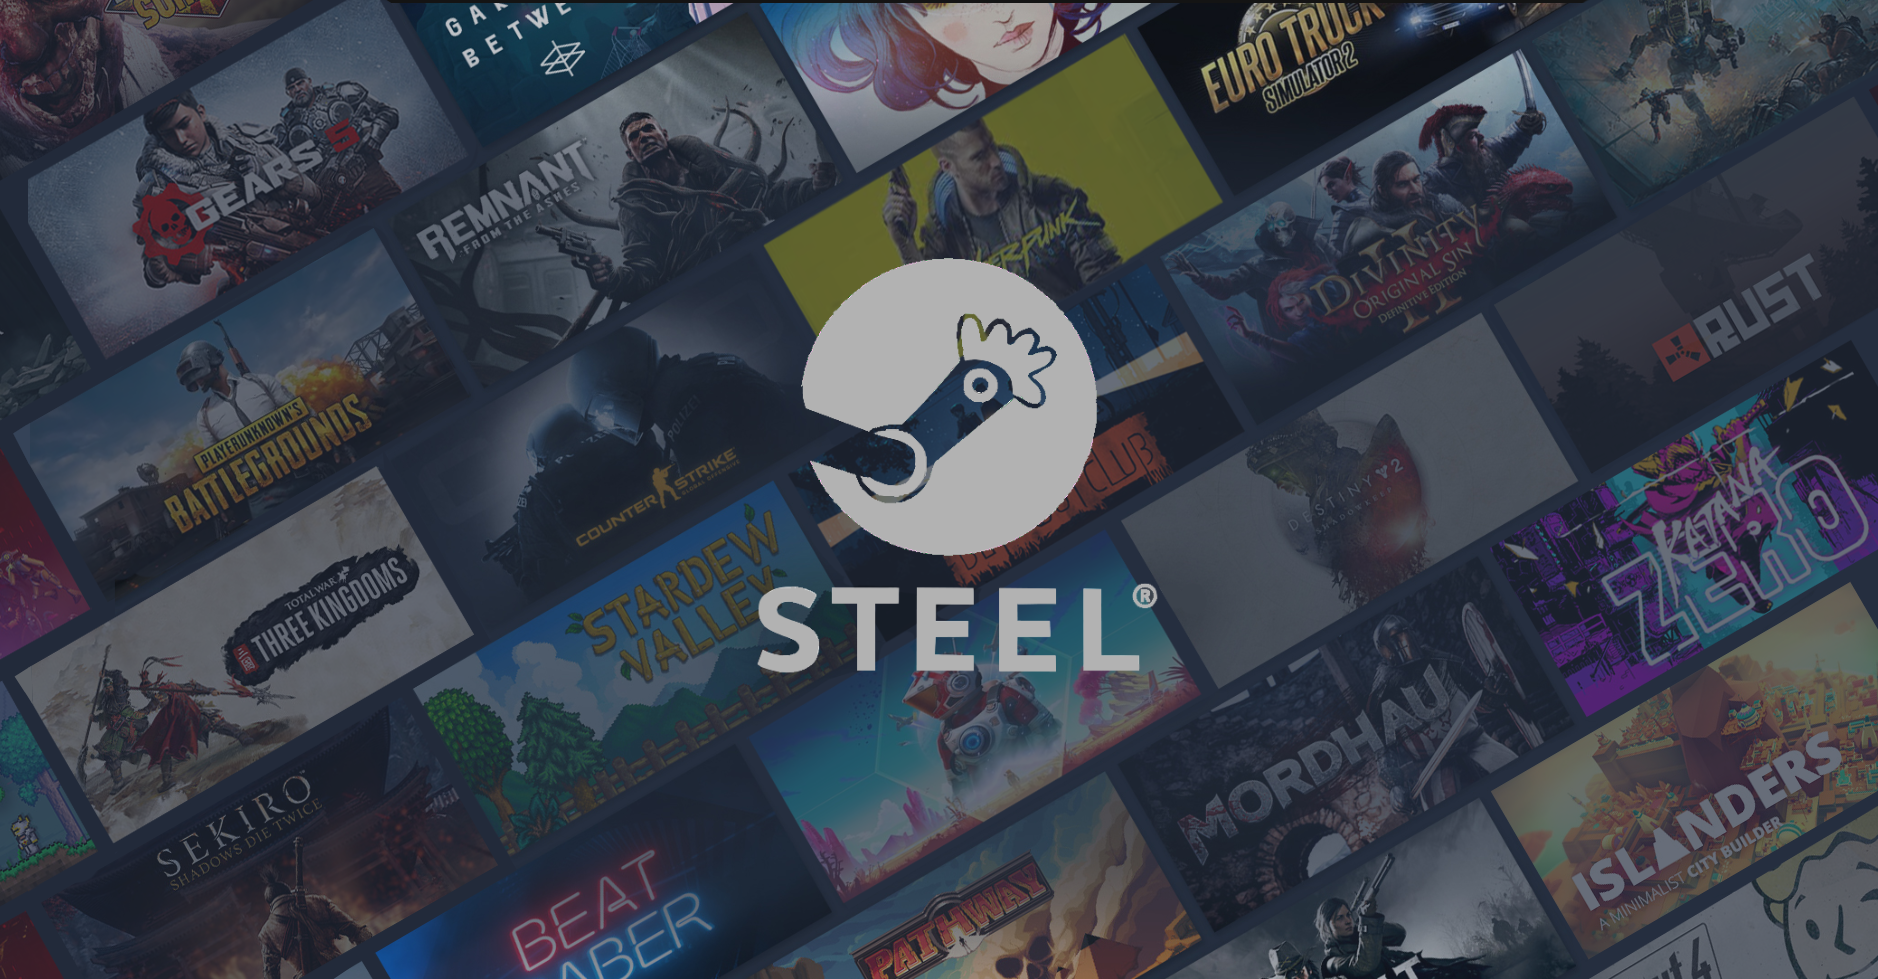
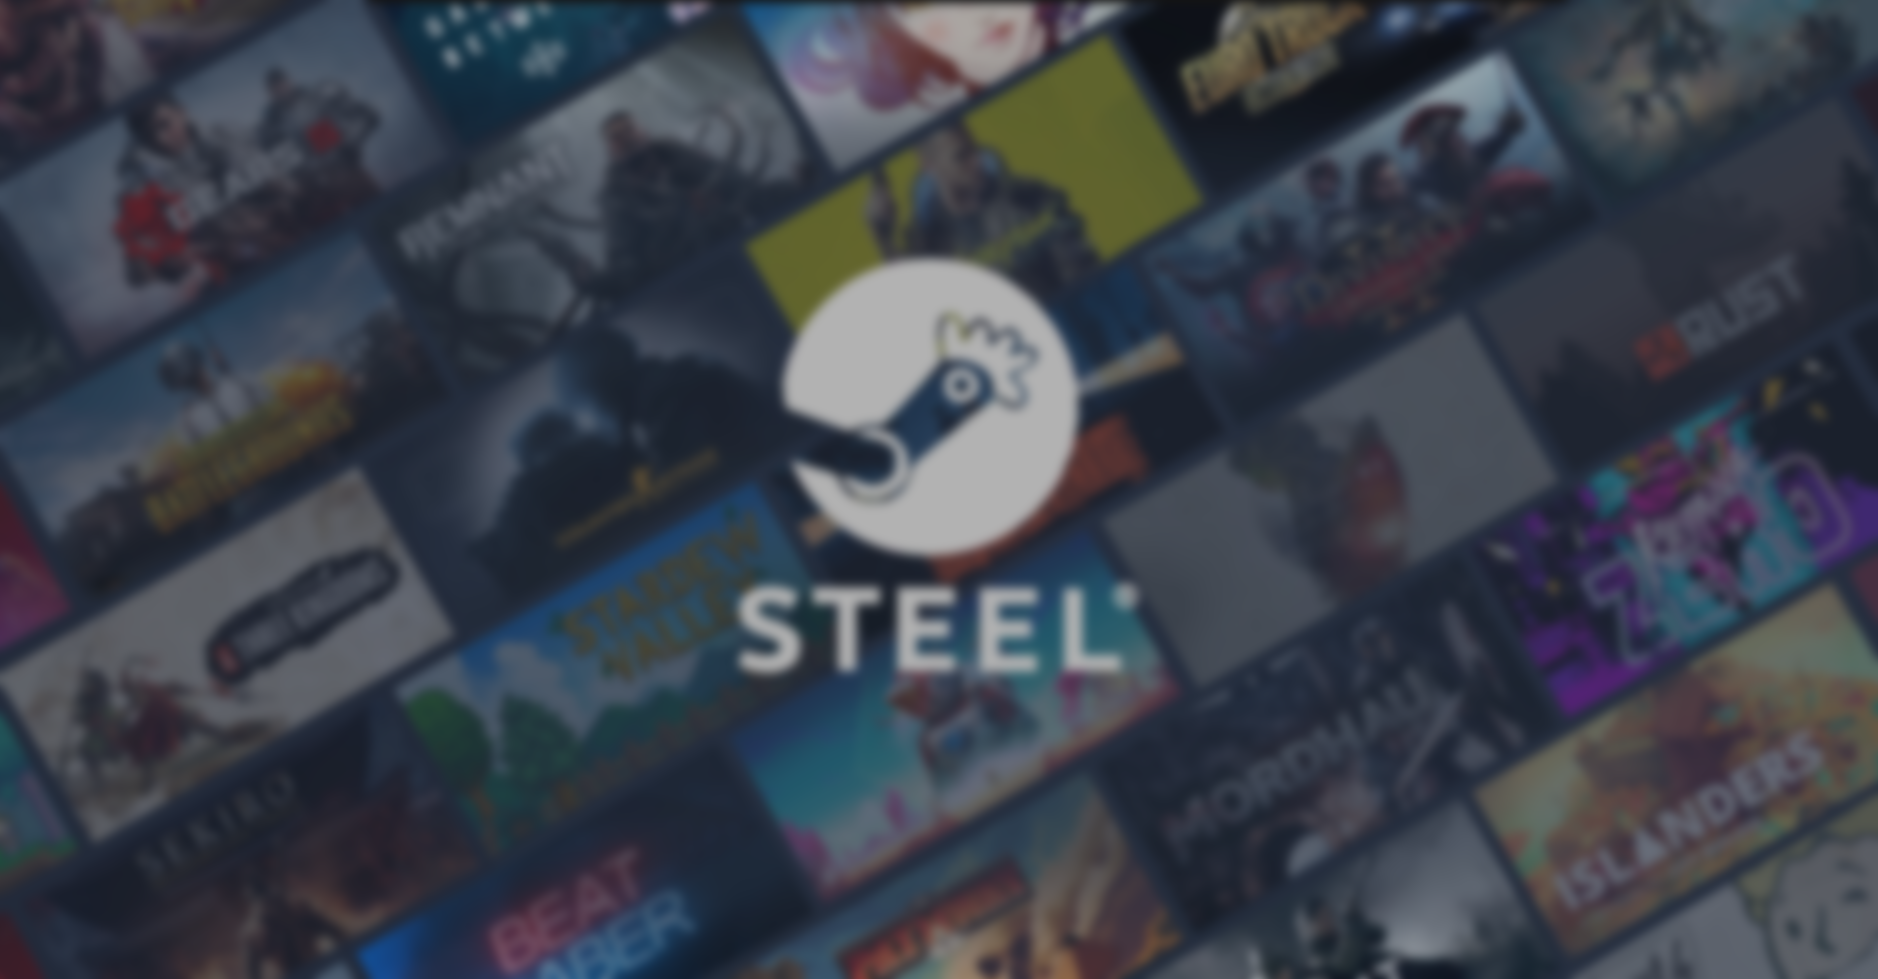
update de img, again

diff --git a/client/src/components/Landing-component/landing.css b/client/src/components/Landing-component/landing.css
@@ -1,19 +1,47 @@
+@import url('https://fonts.googleapis.com/css2?family=Dosis:wght@200;300;400;500;600;700;800&display=swap');
+
 body{
-    background-image: url('https://github.com/Remojs/PI-Videogames/blob/master/client/public/img/LandingBGN.png?raw=true');
+    background-image: url('https://github.com/Remojs/PI-Videogames/blob/master/client/public/img/LandingBG.png?raw=true');
     background-repeat: no-repeat;
     background-size: cover;
     background-attachment: fixed;
 }
 
-.btn-box{
+.landing{
+    height: 100vh;
     display: flex;
-    justify-content: center;
     align-items: center;
+    justify-content: center;
+    margin-top: 250px;
+}
+
+.btn-link{
+    cursor: pointer;
+    text-decoration: none;
+    font-family: 'Dosis', sans-serif;
+    font-weight: 800;
+    text-align: center;	
+    color: #000;
 }
 
 .btn{
-    width: 200px;
-    height: 100px;
-    color: azure;
-    background-color: rgb(29, 38, 68);
+    display: inline-block;
+    padding: 10px 75px;
+    font-size: 24px;
+    outline: none;
+    background-color: #999999;
+    border: none;
+    border-radius: 10px;
+    box-shadow: 0 9px #747474;
 }
+
+.btn:hover {
+    background-color: #a7a7a7
+}
+
+.btn:active {
+    background-color: #a7a7a7;
+    box-shadow: 0 5px #747474;
+    transform: translateY(4px);
+}
+

diff --git a/client/src/components/Landing-component/Landing.jsx b/client/src/components/Landing-component/Landing.jsx
@@ -4,8 +4,10 @@ import './landing.css'
 
 const Landing = () => {
   return (
-    <div className='btn-box'>
-      <button className='btn'> <NavLink to='/home'> GO HOME </NavLink> </button>
+    <div className='component-box'>
+      <div className='landing'>
+        <button className='btn'> <NavLink to='/home' className='btn-link'> Go to Steel </NavLink> </button>
+      </div>
     </div>
   )
 }

diff --git a/client/src/App.js b/client/src/App.js
@@ -1,5 +1,4 @@
 import { Route, Routes} from 'react-router-dom';
-import './App.css';
 import Landing from './components/Landing-component/Landing';
 import Home from './components/Home-component/Home';
 import Detail from './components/Detail-component/Detail';
